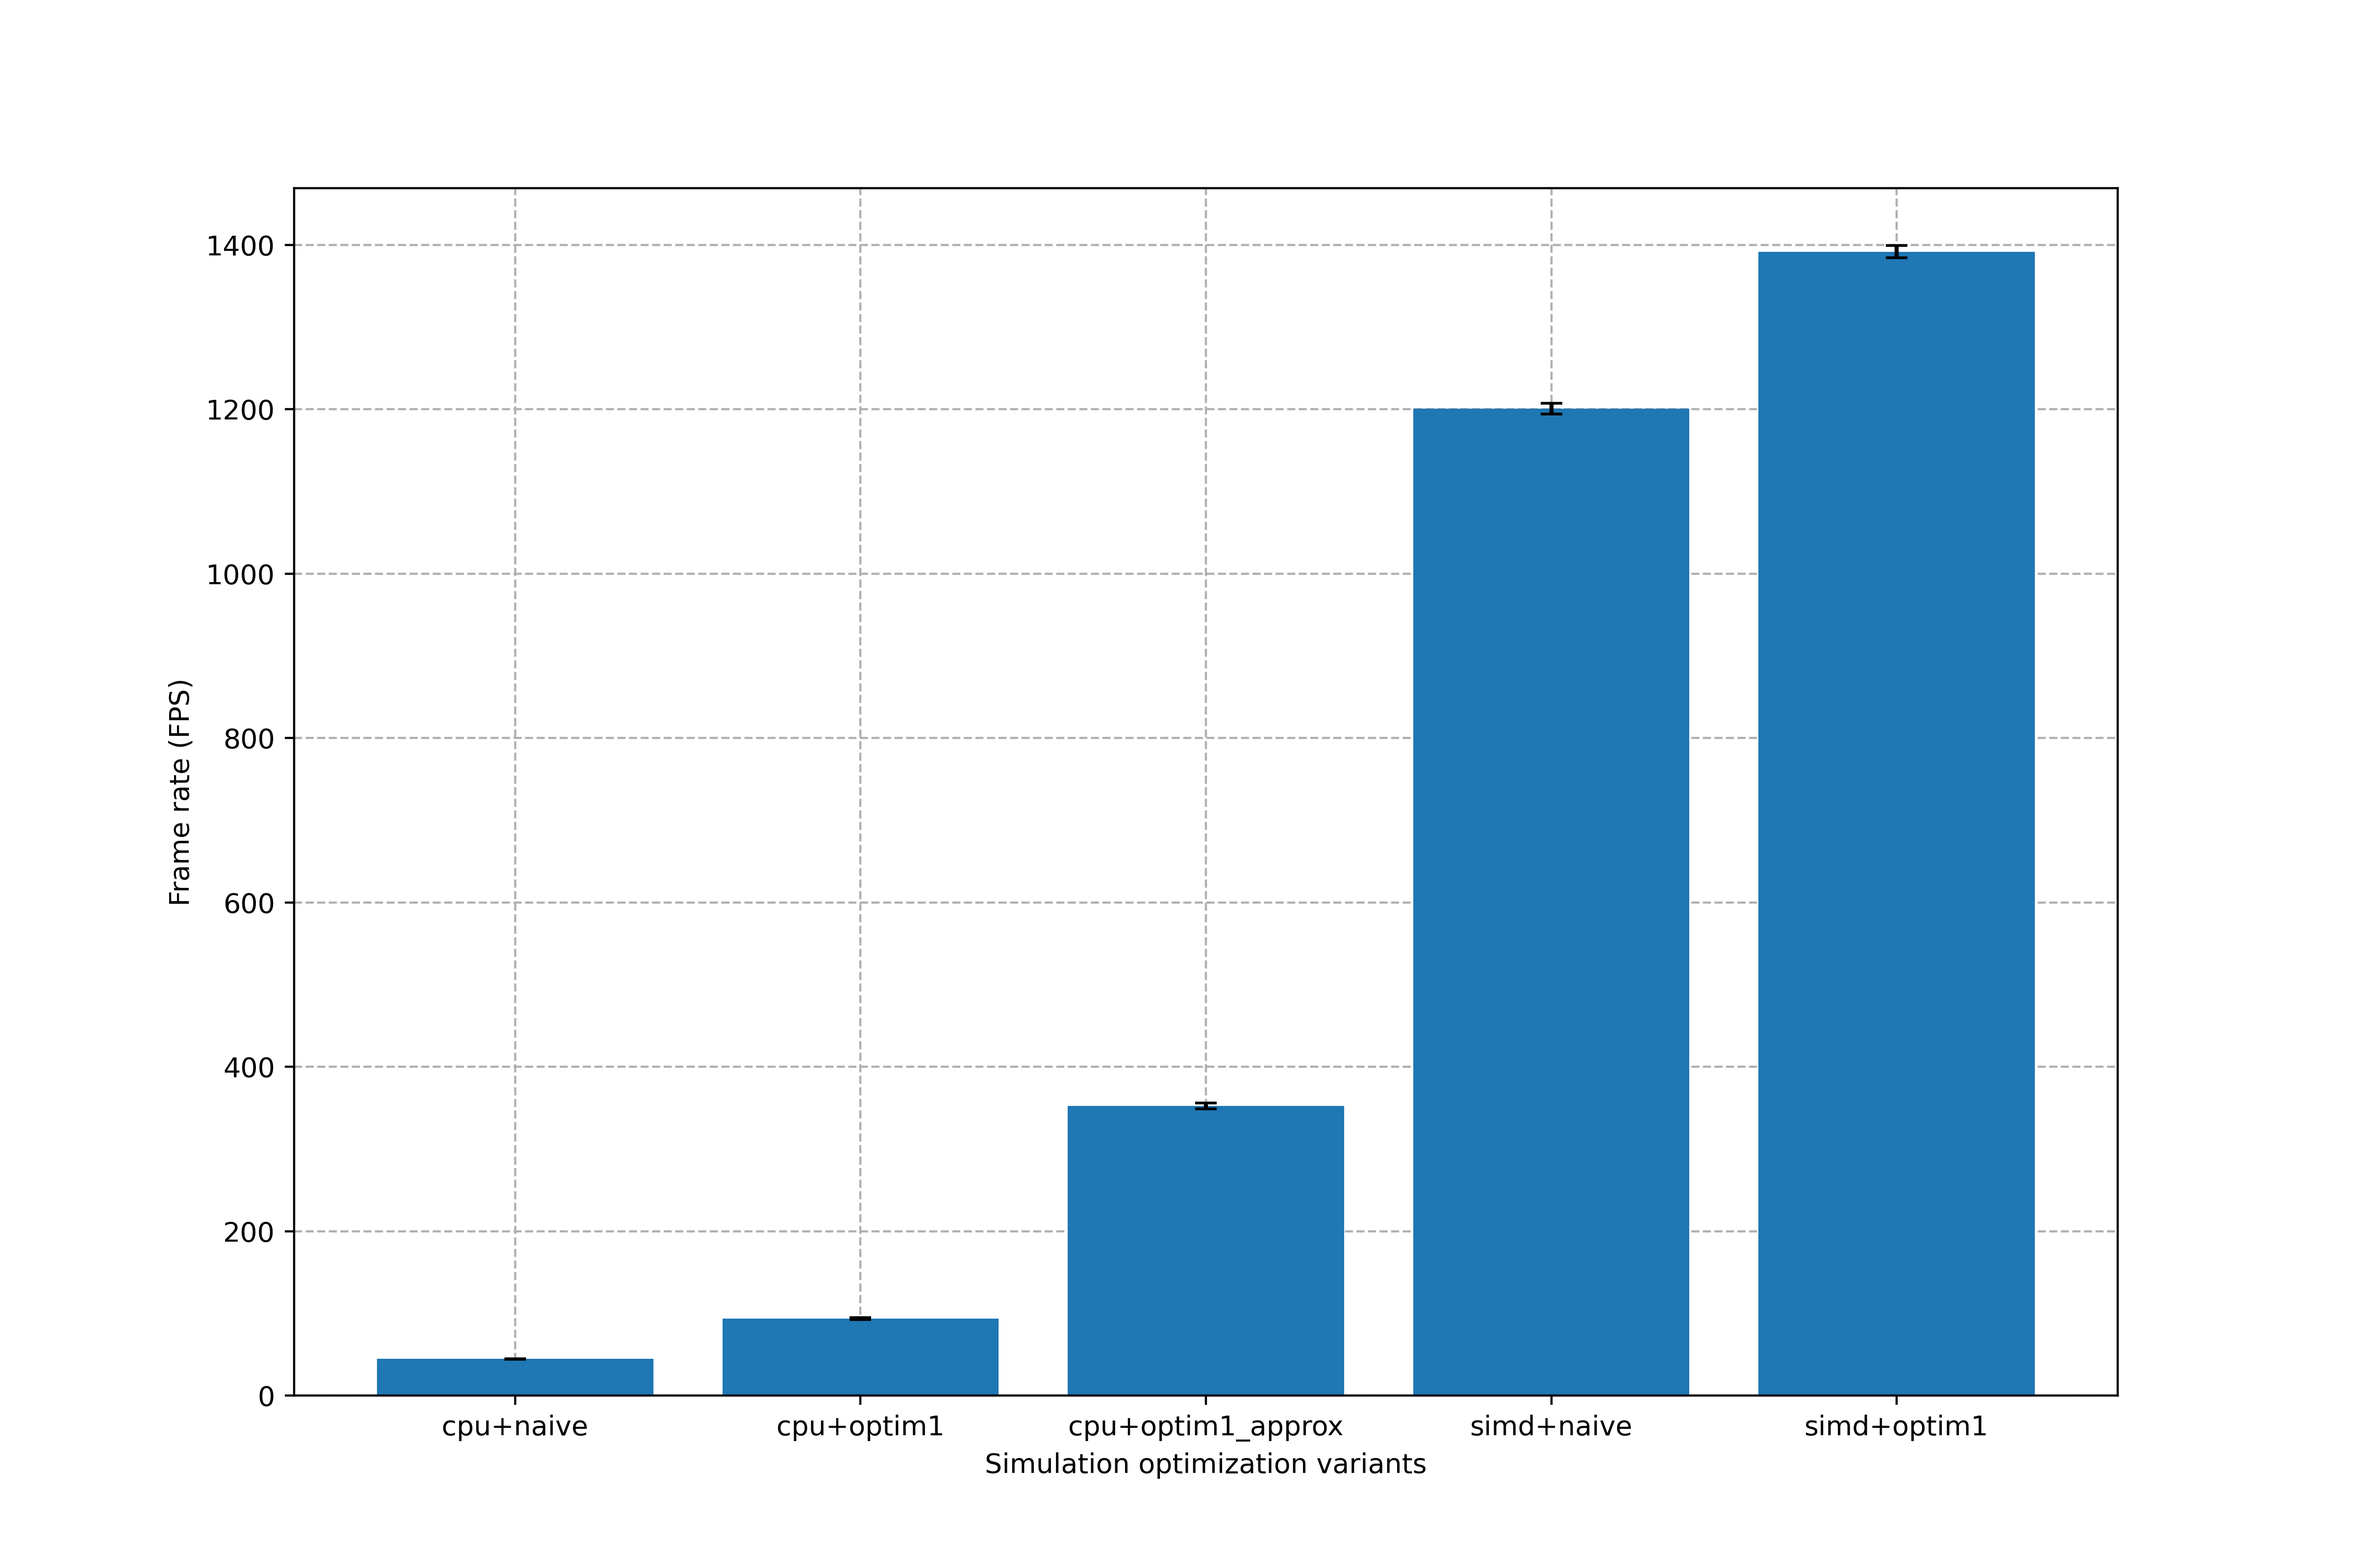
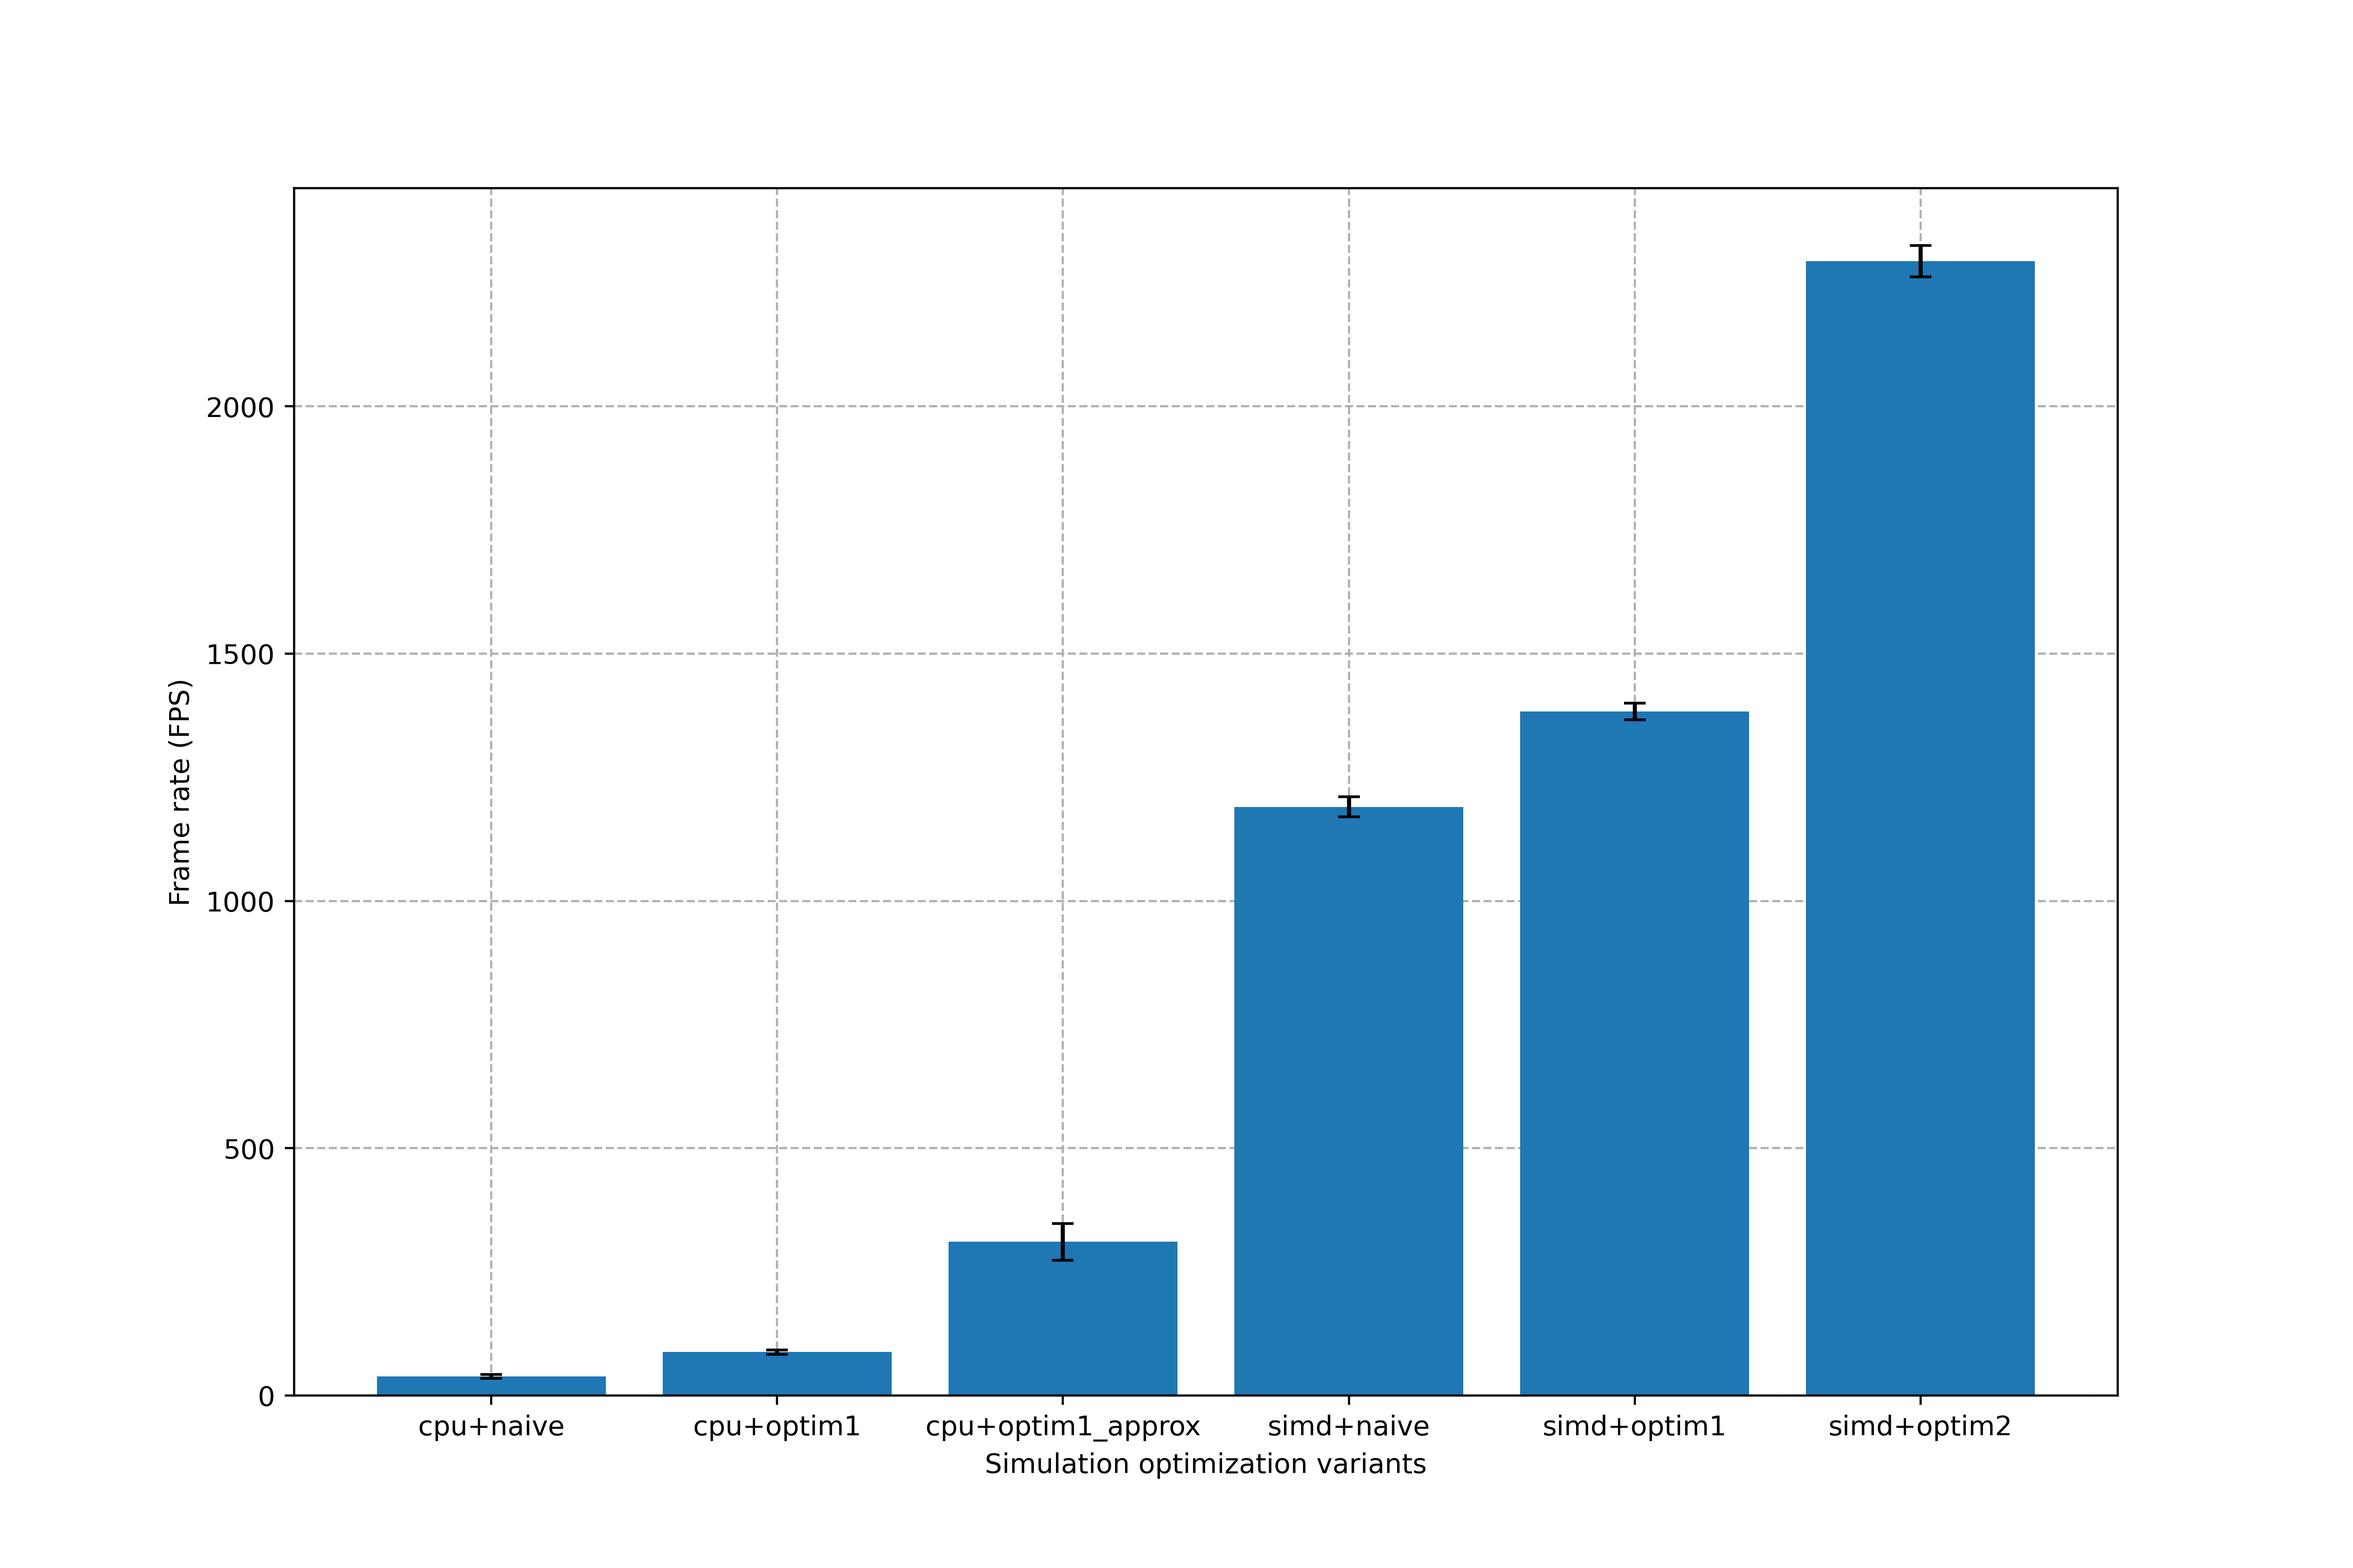
feat: simd optim2 packed data

diff --git a/src/murb/implem/SimulationNBodySimdOptim2.cpp b/src/murb/implem/SimulationNBodySimdOptim2.cpp
@@ -36,12 +36,12 @@ void SimulationNBodySimdOptim2::initIteration()
 void SimulationNBodySimdOptim2::computeBodiesAcceleration()
 {
     const dataSoA_t<float> &d = this->getBodies().getDataSoA();
-    mipp::Reg<float> r_qx_j, r_qy_j, r_qz_j, r_m_j;
     mipp::Reg<float> r_rijx, r_rijy, r_rijz, r_rijSquared;
     mipp::Reg<float> r_rsqrt, r_softFactor, r_ai;
     mipp::Reg<float> r_ax, r_ay, r_az, r_acc_x, r_acc_y, r_acc_z;
+    mipp::Reg<float> r_qx_i, r_qy_i, r_qz_i, r_m_i;
     // AoS access pattern
-    mipp::Reg<float> r_packed_i, r_qx_i, r_qy_i, r_qz_i, r_m_i;
+    mipp::Reg<float> r_packed_j, r_qx_j, r_qy_j, r_qz_j, r_m_j;
     // compute e²
     const float softSquared = std::pow(this->soft, 2);        // 1 flops
     mipp::Reg<float> r_softSquared = mipp::set1(softSquared); // 1 flops
@@ -51,24 +51,23 @@ void SimulationNBodySimdOptim2::computeBodiesAcceleration()
 
     // remaining
     // flops = n² * 23
-    for (unsigned long iBody = 0; iBody < simd_loop_size; iBody++) {
-        r_packed_i.load((const float *)(&this->packed_bodies[iBody]));
-        r_qx_i = r_packed_i.get(0);
-        r_qy_i = r_packed_i.get(1);
-        r_qz_i = r_packed_i.get(2);
-        r_m_i = r_packed_i.get(3);
+    for (unsigned long iBody = 0; iBody < simd_loop_size; iBody += mipp::N<float>()) {
+        r_qx_i.load(&d.qx[iBody]);
+        r_qy_i.load(&d.qy[iBody]);
+        r_qz_i.load(&d.qz[iBody]);
 
-        float ax = this->accelerations.ax[iBody];
-        float ay = this->accelerations.ay[iBody];
-        float az = this->accelerations.az[iBody];
+        r_ax.load(&this->accelerations.ax[iBody]);
+        r_ay.load(&this->accelerations.ay[iBody]);
+        r_az.load(&this->accelerations.az[iBody]);
 
         // simd
         // flops = n * 23
-        for (unsigned long jBody = 0; jBody < simd_loop_size; jBody += mipp::N<float>()) {
-            r_qx_j.load(&d.qx[jBody]);
-            r_qy_j.load(&d.qy[jBody]);
-            r_qz_j.load(&d.qz[jBody]);
-            r_m_j.load(&d.m[jBody]);
+        for (unsigned long jBody = 0; jBody < this->getBodies().getN(); jBody += 1) {
+            r_packed_j.load((const float *)(&this->packed_bodies[jBody]));
+            r_qx_j = r_packed_j.get(0);
+            r_qy_j = r_packed_j.get(1);
+            r_qz_j = r_packed_j.get(2);
+            r_m_j = r_packed_j.get(3);
 
             r_rijx = r_qx_j - r_qx_i; // 1 flop
             r_rijy = r_qy_j - r_qy_i; // 1 flop
@@ -82,36 +81,15 @@ void SimulationNBodySimdOptim2::computeBodiesAcceleration()
             r_ai = (r_m_j * this->G) * (r_rsqrt * r_rsqrt * r_rsqrt); // 4 flops
 
             // add the acceleration value into the acceleration vector: ai += || ai ||.rij
-            ax += mipp::sum(r_ai * r_rijx); // 3
-            ay += mipp::sum(r_ai * r_rijy); // 3
-            az += mipp::sum(r_ai * r_rijz); // 3
-        }
-
-        // remaining, elements in the j-array don't fit in a simd register
-        // flops = (remaining n) * 21
-        for (unsigned long jBody = simd_loop_size; jBody < this->getBodies().getN(); jBody++) {
-            const float rijx = d.qx[jBody] - r_qx_i.getfirst(); // 1 flop
-            const float rijy = d.qy[jBody] - r_qy_i.getfirst(); // 1 flop
-            const float rijz = d.qz[jBody] - r_qz_i.getfirst(); // 1 flop
-
-            // compute the || rij ||² distance between body i and body j
-            const float rijSquared = rijx * rijx + rijy * rijy + rijz * rijz + softSquared; // 6 flops
-            // compute the inverse distance between the bodies: 1 / (|| rij ||² + e²)^{3/2}
-            const float rsqrt = 1 / sqrt(rijSquared);   // 2 flops
-            const float rsqrt3 = rsqrt * rsqrt * rsqrt; // 2 flops
-            // compute the acceleration value between body i and body j: || ai || = G.mj / distance
-            const float ai = this->G * d.m[jBody] * rsqrt3; // 2 flops
-
-            // add the acceleration value into the acceleration vector: ai += || ai ||.rij
-            ax += ai * rijx; // 2 flops
-            ay += ai * rijy; // 2 flops
-            az += ai * rijz; // 2 flops
+            r_ax += r_ai * r_rijx;
+            r_ay += r_ai * r_rijy;
+            r_az += r_ai * r_rijz;
         }
 
         // store
-        this->accelerations.ax[iBody] = ax;
-        this->accelerations.ay[iBody] = ay;
-        this->accelerations.az[iBody] = az;
+        r_ax.store(&this->accelerations.ax[iBody]);
+        r_ay.store(&this->accelerations.ay[iBody]);
+        r_az.store(&this->accelerations.az[iBody]);
     }
 
     // remaining

diff --git a/bench.py b/bench.py
@@ -11,6 +11,7 @@ benches = [
     {"variant": "cpu+optim1_approx", "bodies": 1000, "iterations": 100},
     {"variant": "simd+naive", "bodies": 1000, "iterations": 500},
     {"variant": "simd+optim1", "bodies": 1000, "iterations": 500},
+    {"variant": "simd+optim2", "bodies": 1000, "iterations": 500},
 ]
 
 passes = 10
